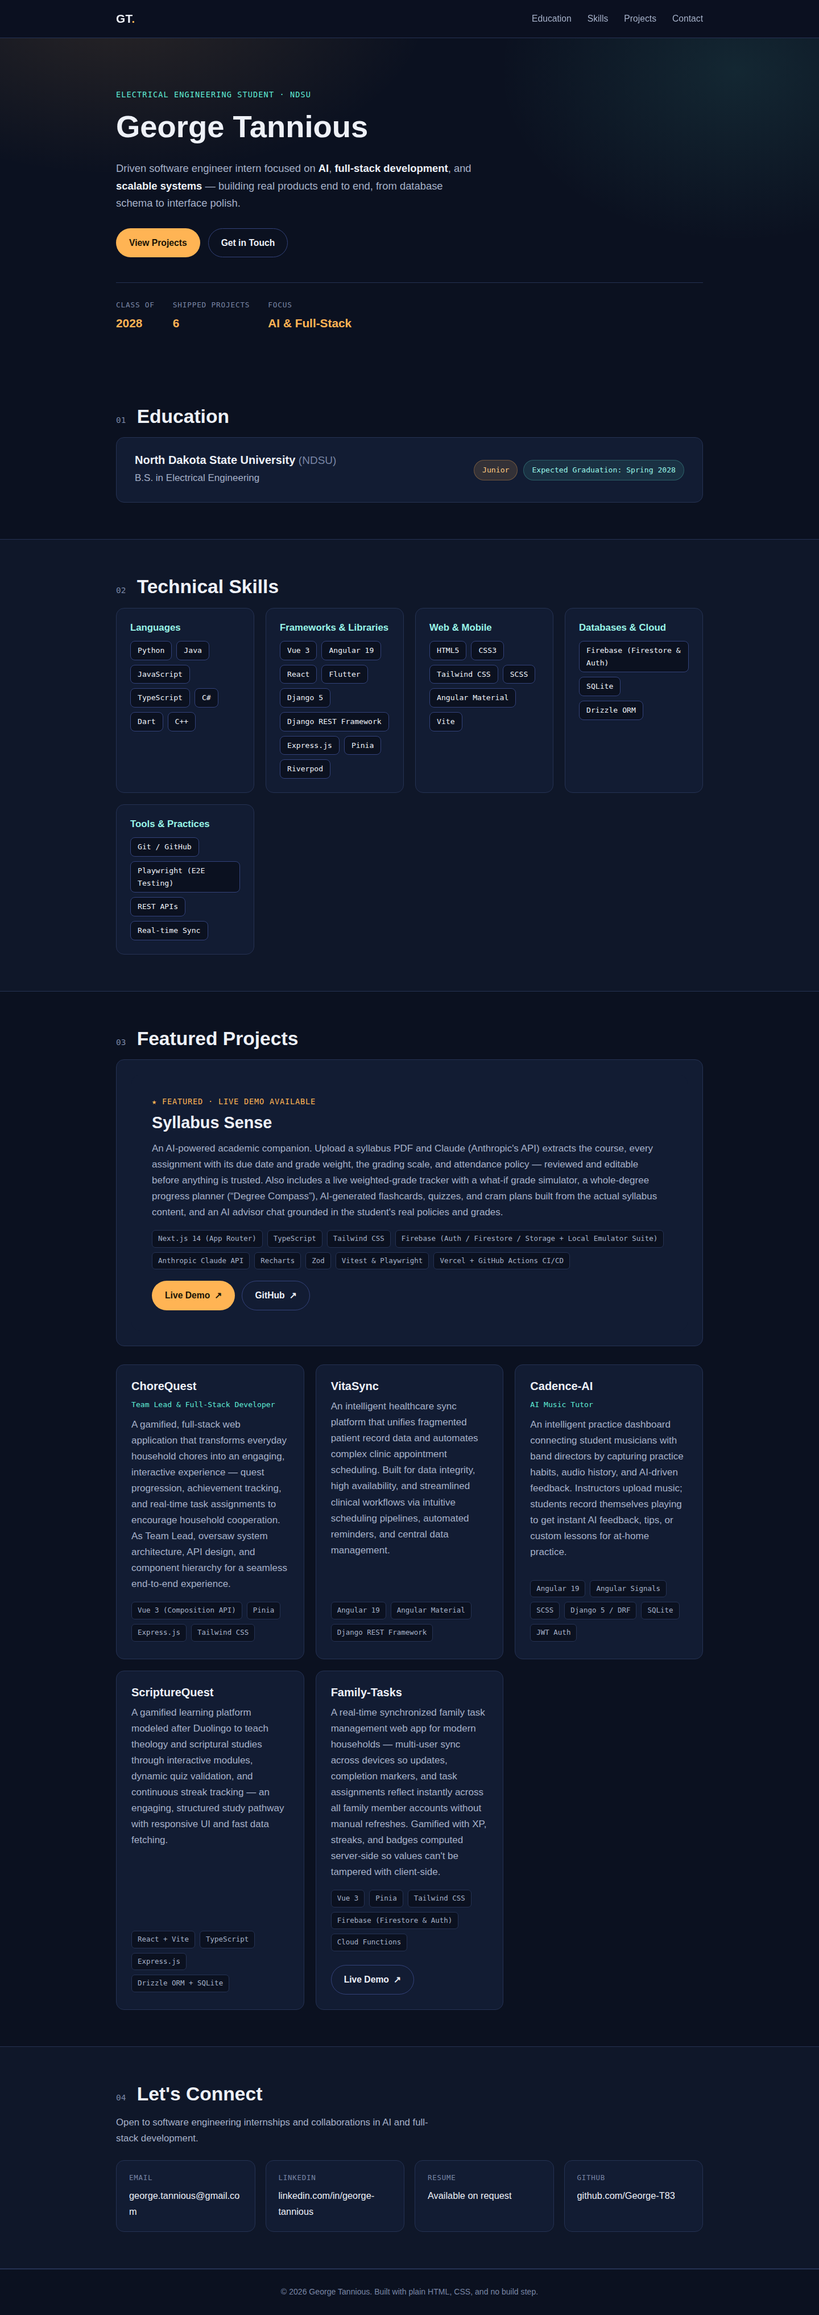
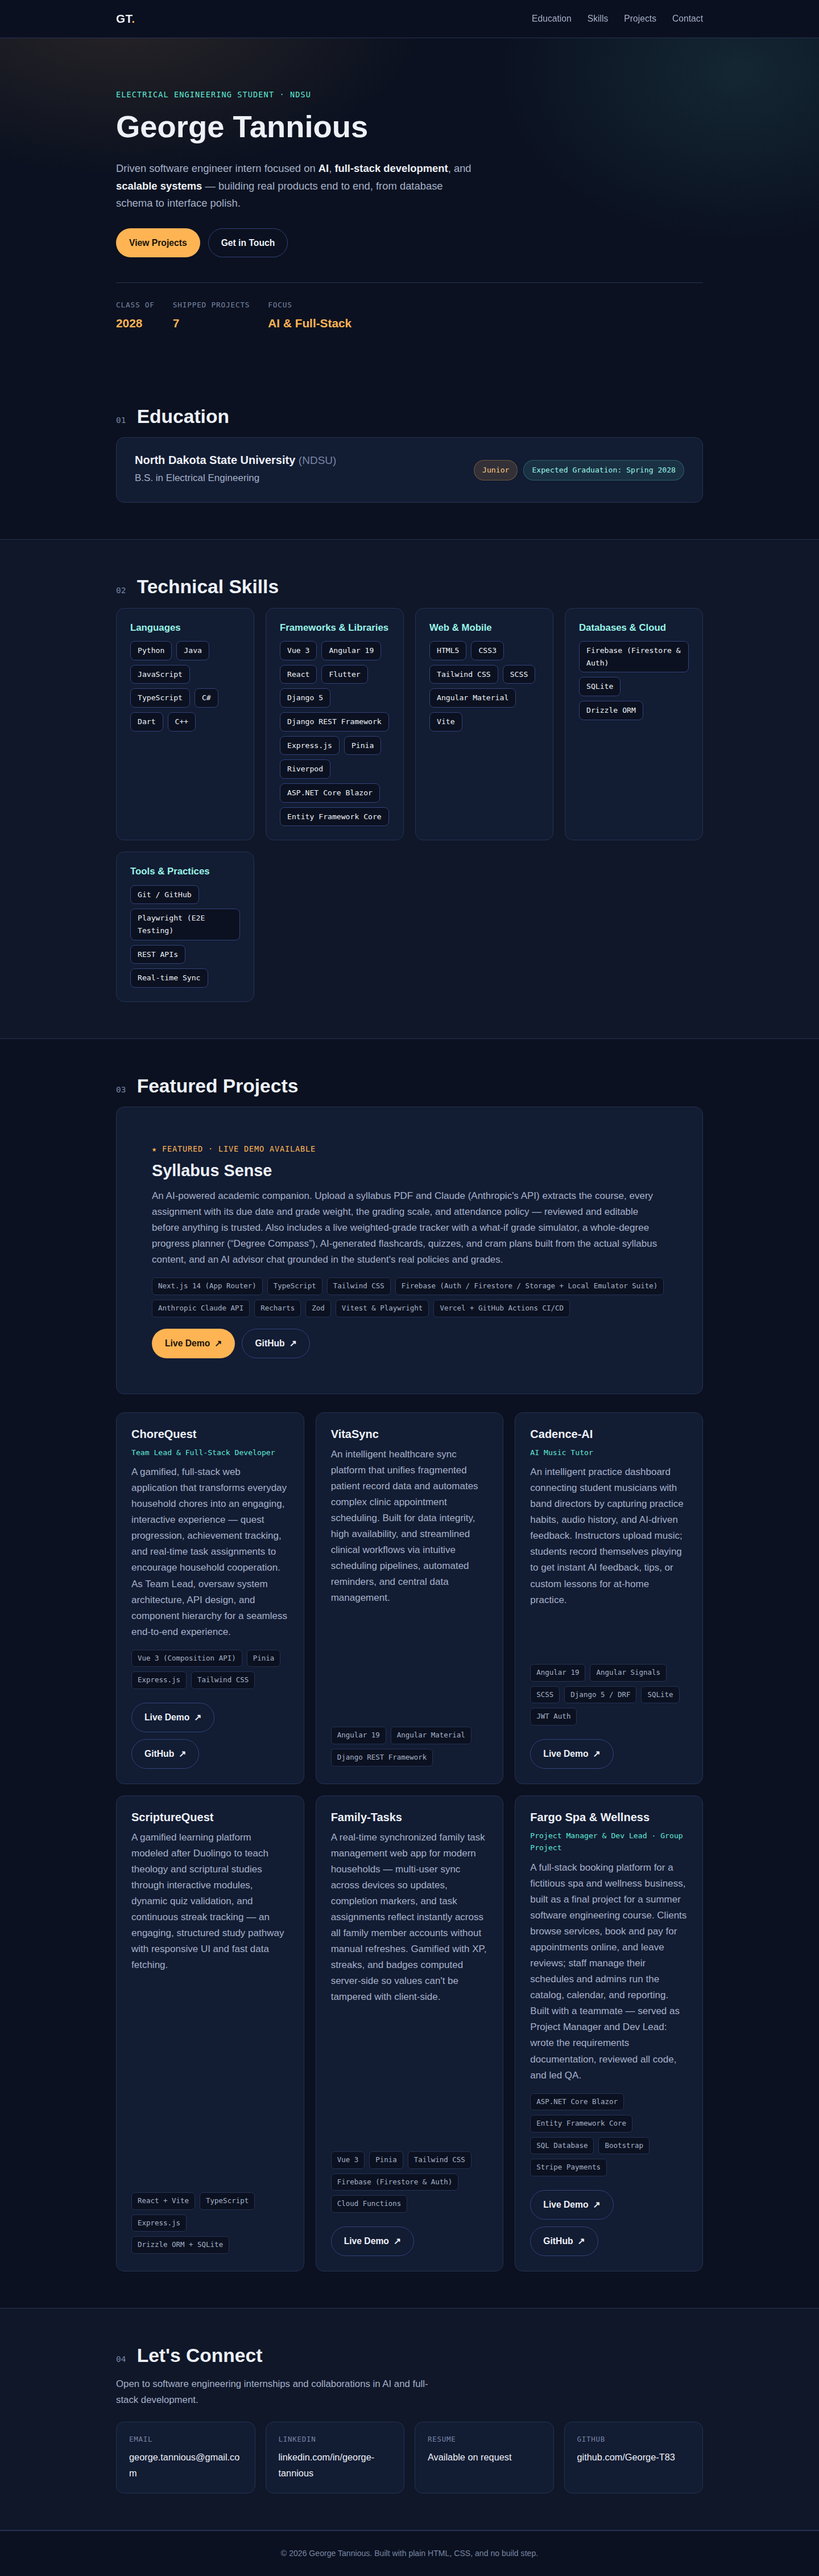
Add live demo links for ChoreQuest and Cadence-AI; add Fargo Spa & Wellness
George provided the actual live URLs for these, verified they're real
working apps (not placeholders) before linking:
- ChoreQuest: george-t83.github.io/ChoreQuest (public repo, GitHub link
  added too)
- Cadence-AI: cadence-ai-dcb55.web.app (repo is private, demo link only)

Also adds a 7th project, Fargo Spa & Wellness, previously missing from
the site entirely: a group project (CSCI 213 course) built with a
teammate, where George served as Project Manager and Dev Lead. Details
pulled from the repo's own README (ASP.NET Core Blazor, EF Core, SQL,
Bootstrap; Stripe payments confirmed via the live deployment's bundle).

Updated the "shipped projects" stat to 7 and added ASP.NET Core Blazor
/ EF Core to the skills grid to match.

diff --git a/index.html b/index.html
@@ -59,7 +59,7 @@
           </div>
           <div>
             <dt>Shipped projects</dt>
-            <dd>6</dd>
+            <dd>7</dd>
           </div>
           <div>
             <dt>Focus</dt>
@@ -98,7 +98,7 @@
           <div class="skill-card">
             <h3>Frameworks &amp; Libraries</h3>
             <ul class="pill-list">
-              <li>Vue 3</li><li>Angular 19</li><li>React</li><li>Flutter</li><li>Django 5</li><li>Django REST Framework</li><li>Express.js</li><li>Pinia</li><li>Riverpod</li>
+              <li>Vue 3</li><li>Angular 19</li><li>React</li><li>Flutter</li><li>Django 5</li><li>Django REST Framework</li><li>Express.js</li><li>Pinia</li><li>Riverpod</li><li>ASP.NET Core Blazor</li><li>Entity Framework Core</li>
             </ul>
           </div>
           <div class="skill-card">
@@ -177,7 +177,14 @@
               <li>Express.js</li>
               <li>Tailwind CSS</li>
             </ul>
-            <!-- TODO: add live demo link when deployed -->
+            <div class="project-links">
+              <a class="btn btn-ghost" href="https://george-t83.github.io/ChoreQuest/#/dashboard" target="_blank" rel="noopener noreferrer">
+                Live Demo <span aria-hidden="true">↗</span>
+              </a>
+              <a class="btn btn-ghost" href="https://github.com/George-T83/ChoreQuest" target="_blank" rel="noopener noreferrer">
+                GitHub <span aria-hidden="true">↗</span>
+              </a>
+            </div>
           </article>
 
           <article class="project-card">
@@ -212,7 +219,11 @@
               <li>SQLite</li>
               <li>JWT Auth</li>
             </ul>
-            <!-- TODO: add live demo link when deployed -->
+            <div class="project-links">
+              <a class="btn btn-ghost" href="https://cadence-ai-dcb55.web.app/" target="_blank" rel="noopener noreferrer">
+                Live Demo <span aria-hidden="true">↗</span>
+              </a>
+            </div>
           </article>
 
           <article class="project-card">
@@ -249,6 +260,33 @@
             <div class="project-links">
               <a class="btn btn-ghost" href="https://family-tasks-5d3aa.web.app" target="_blank" rel="noopener noreferrer">
                 Live Demo <span aria-hidden="true">↗</span>
+              </a>
+            </div>
+          </article>
+
+          <article class="project-card">
+            <h3>Fargo Spa &amp; Wellness</h3>
+            <p class="project-role">Project Manager &amp; Dev Lead · Group Project</p>
+            <p class="project-desc">
+              A full-stack booking platform for a fictitious spa and wellness business, built as a final project
+              for a summer software engineering course. Clients browse services, book and pay for appointments
+              online, and leave reviews; staff manage their schedules and admins run the catalog, calendar, and
+              reporting. Built with a teammate — served as Project Manager and Dev Lead: wrote the requirements
+              documentation, reviewed all code, and led QA.
+            </p>
+            <ul class="tech-list" aria-label="Key technologies for Fargo Spa and Wellness">
+              <li>ASP.NET Core Blazor</li>
+              <li>Entity Framework Core</li>
+              <li>SQL Database</li>
+              <li>Bootstrap</li>
+              <li>Stripe Payments</li>
+            </ul>
+            <div class="project-links">
+              <a class="btn btn-ghost" href="https://fargospa.duckdns.org/" target="_blank" rel="noopener noreferrer">
+                Live Demo <span aria-hidden="true">↗</span>
+              </a>
+              <a class="btn btn-ghost" href="https://github.com/George-T83/Fargo-Spa-and-Wellness" target="_blank" rel="noopener noreferrer">
+                GitHub <span aria-hidden="true">↗</span>
               </a>
             </div>
           </article>
